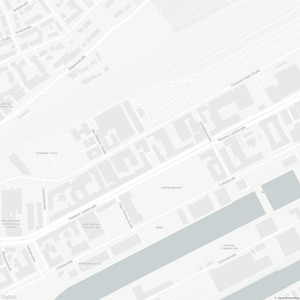
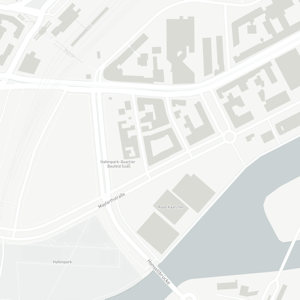
feat: change frankfurt location

diff --git a/src/templates/module_07_locations/template.html b/src/templates/module_07_locations/template.html
@@ -130,7 +130,7 @@ name: Locations
 				/>
 		</ElementLink>
 		<ElementLink
-			data-marker="Hanauer Landstr. 181"
+			data-marker="Mayfarthstraße 15-19"
 			className="map map-frankfurt"
 			rel="noopener noreferrer"
 			href="https://www.google.de/maps/place/SinnerSchrader/@50.1136884,8.7149786,17z/data=!3m1!4b1!4m5!3m4!1s0x47bd0bfa1014b789:0xe4bed44fc61a4e8f!8m2!3d50.113685!4d8.7171673"
@@ -211,7 +211,7 @@ name: Locations
 			<h3 className="city  h2-1">Frankfurt</h3>
 			<h4 className="h4">SinnerSchrader</h4>
 			<p className="copy">
-				Hanauer Landstr. 181<br />
+				Mayfarthstraße 15-19<br />
 				60314 Frankfurt am Main<br />
 				+49 69 42 72 64 50 - 0<br />
 				<a href="mailto:info@sinnerschrader.com" className="h4 link">info@sinnerschrader.com</a>
